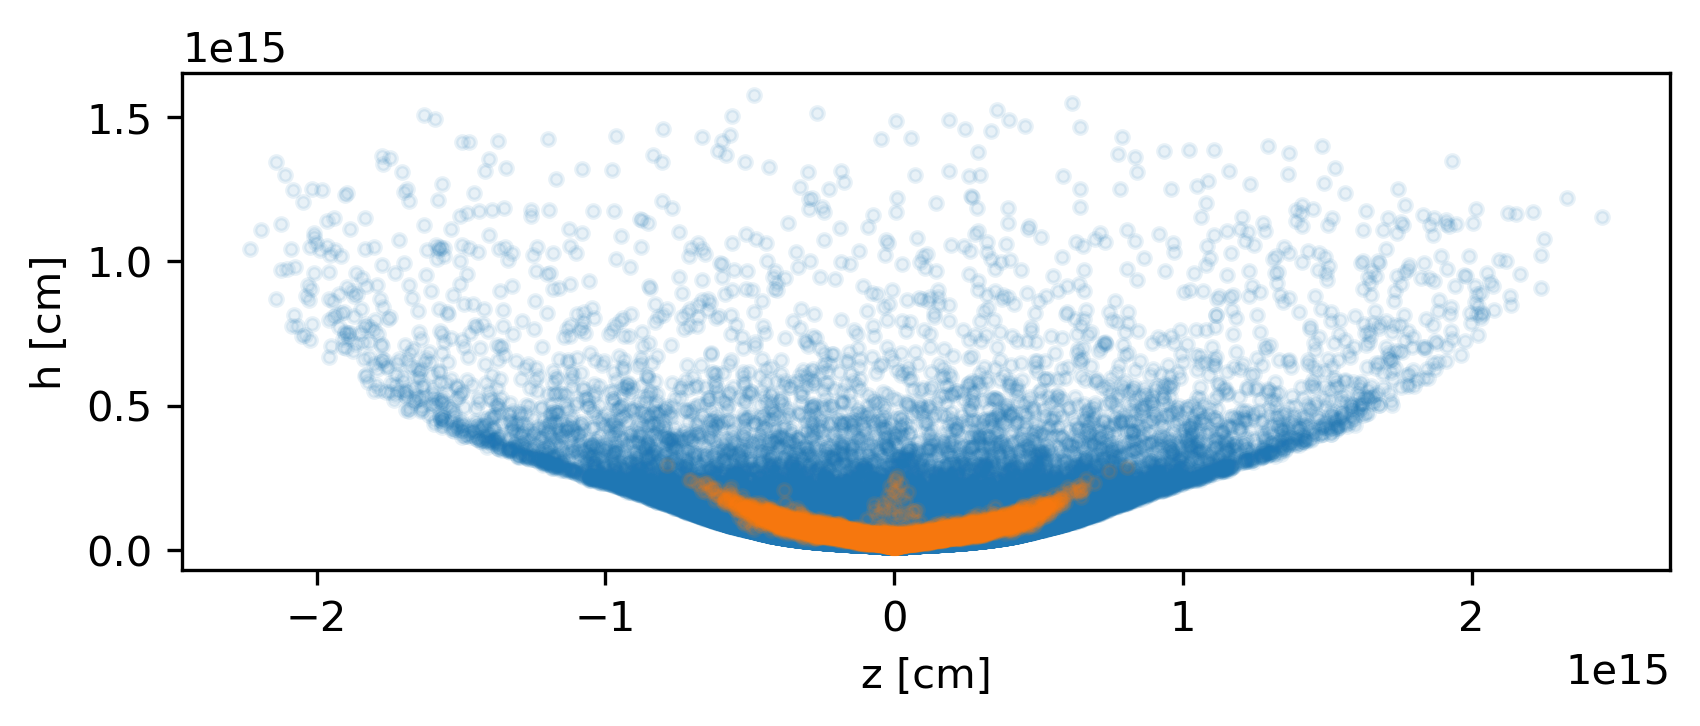
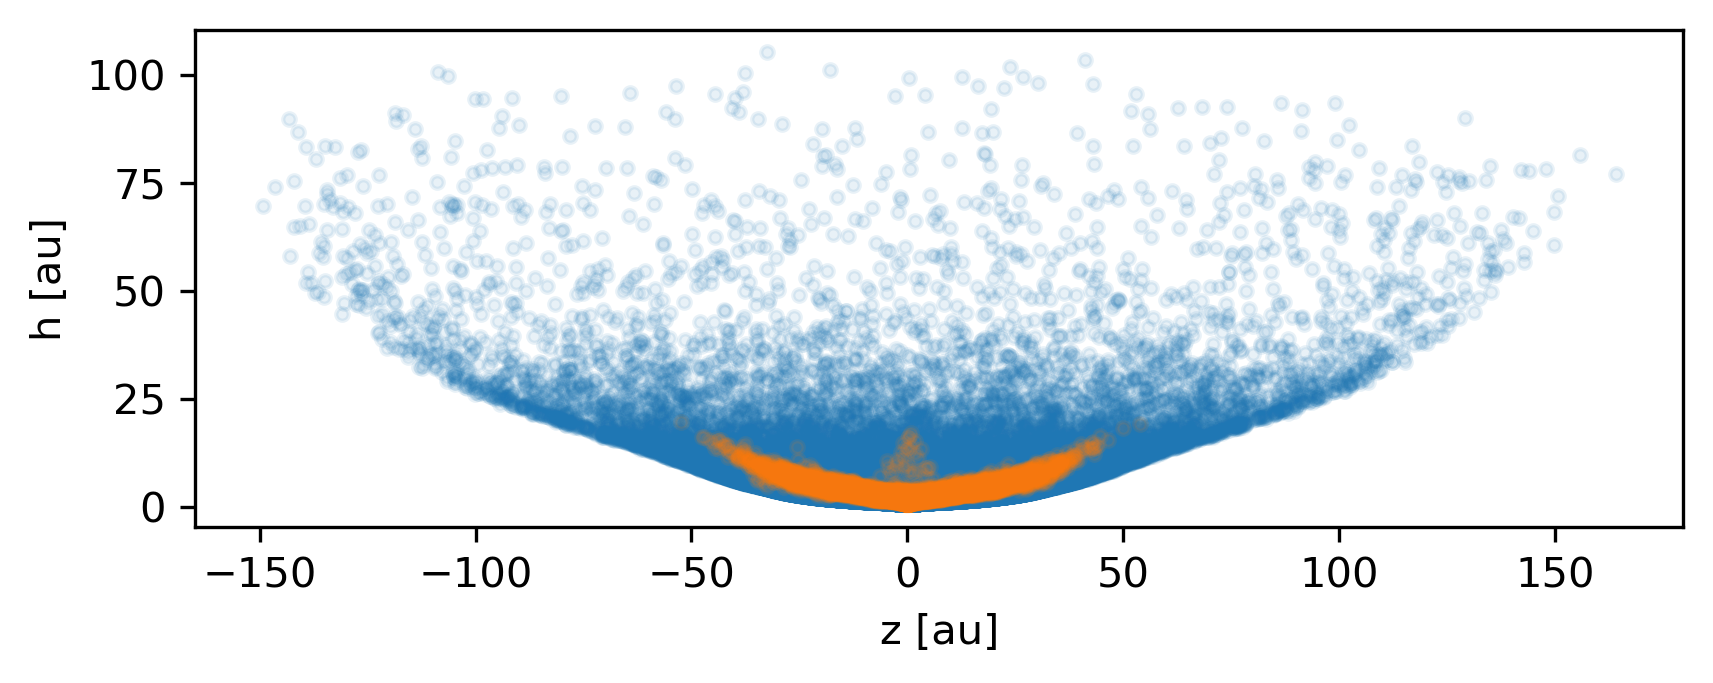
Update docs

diff --git a/docs/source/quickstart.rst b/docs/source/quickstart.rst
@@ -62,13 +62,13 @@ Load a single snapshot and access particle arrays and properties.
     >>> snap = plonk.load_snap('disc_00030.h5')
 
     >>> snap['position']
-    array([[-3.69505001e+14,  7.42032967e+14, -7.45096980e+13],
-           [-1.63052677e+15,  1.16308971e+15,  1.92879212e+14],
-           [-7.66283930e+14,  1.62532232e+15,  2.34302988e+13],
+    array([[-3.69505001e+12,  7.42032967e+12, -7.45096980e+11],
+           [-1.63052677e+13,  1.16308971e+13,  1.92879212e+12],
+           [-7.66283930e+12,  1.62532232e+13,  2.34302988e+11],
            ...,
-           [ 1.39571712e+15, -1.16179990e+15,  8.09090354e+13],
-           [ 9.53716176e+14,  9.98500386e+14,  4.93933367e+13],
-           [ 1.21421196e+14,  2.08618956e+15,  1.12998892e+14]]) <Unit('centimeter')>
+           [ 1.39571712e+13, -1.16179990e+13,  8.09090354e+11],
+           [ 9.53716176e+12,  9.98500386e+12,  4.93933367e+11],
+           [ 1.21421196e+12,  2.08618956e+13,  1.12998892e+12]]) <Unit('meter')>
 
     >>> snap['position'].to('au')
     array([[ -24.6998837 ,   49.60184016,   -4.98066567],
@@ -90,7 +90,9 @@ Load a single snapshot and access sink arrays.
 
     >>> snap = plonk.load_snap('disc_00030.h5')
 
-    >>> snap.sinks.available_arrays()
+    >>> sinks = snap.sinks
+
+    >>> sinks.available_arrays()
     ('accretion_radius',
      'last_injection_time',
      'mass',
@@ -100,9 +102,9 @@ Load a single snapshot and access sink arrays.
      'spin',
      'velocity')
 
-    >>> snap.sinks['spin']
-    array([[ 3.56866999e+43, -1.17910663e+44,  2.44598074e+47],
-           [ 4.14083556e+43,  1.19118555e+43,  2.62569386e+46]]) <Unit('centimeter ** 2 * gram / second')>
+    >>> sinks['spin']
+    array([[ 3.56866999e+36, -1.17910663e+37,  2.44598074e+40],
+           [ 4.14083556e+36,  1.19118555e+36,  2.62569386e+39]]) <Unit('kilogram * meter ** 2 / second')>
 
 
 ~~~~~~~~~~~~~~~~~~~~~
@@ -188,10 +190,50 @@ Load a simulation, and access snapshots and other data.
      <plonk.Snap "disc_00030.h5">]
 
     >>> sim.time_series['global']
-    # Output is a pandas DataFrame
+             time [s]  ...  dust_density_average [kg / m ** 3]
+    0    0.000000e+00  ...                        4.762293e-15
+    1    8.005946e+06  ...                        4.762195e-15
+    2    3.202378e+07  ...                        4.763760e-15
+    3    1.280951e+08  ...                        4.789313e-15
+    4    2.561903e+08  ...                        4.877956e-15
+    ..            ...  ...                                 ...
+    548  6.225423e+10  ...                        1.475116e-14
+    549  6.238233e+10  ...                        1.475371e-14
+    550  6.251042e+10  ...                        1.478691e-14
+    551  6.263852e+10  ...                        1.483493e-14
+    552  6.276661e+10  ...                        1.489087e-14
+
+    [553 rows x 21 columns]
 
     >>> sim.time_series['sinks']
-    # Output is a list of pandas DataFrames
+    [          time [s]  position_x [m]  ...  sink_sink_force_y [N]  sink_sink_force_z [N]
+     0     4.002973e+06   -1.068586e+10  ...           2.455750e+18           2.020208e+14
+     1     8.005946e+06   -1.068584e+10  ...           4.911471e+18           2.020271e+14
+     2     1.601189e+07   -1.068574e+10  ...           9.822886e+18           2.020559e+14
+     3     3.202378e+07   -1.068536e+10  ...           1.964551e+19           2.021794e+14
+     4     6.404757e+07   -1.068380e+10  ...           3.928915e+19           1.407952e+14
+     ...            ...             ...  ...                    ...                    ...
+     1038  6.257447e+10   -9.976304e+09  ...           7.513519e+20           7.902581e+15
+     1039  6.263852e+10   -9.895056e+09  ...           7.884134e+20           7.664701e+15
+     1040  6.270257e+10   -9.809975e+09  ...           8.251714e+20           7.628553e+15
+     1041  6.276661e+10   -9.721096e+09  ...           8.616085e+20           7.705555e+15
+     1042  6.283066e+10   -9.628452e+09  ...           8.977201e+20           7.391809e+15
+
+     [1043 rows x 18 columns],
+               time [s]  position_x [m]  ...  sink_sink_force_y [N]  sink_sink_force_z [N]
+     0     4.002973e+06    1.120931e+13  ...          -2.573360e+21          -2.116959e+17
+     1     8.005946e+06    1.120928e+13  ...          -5.146689e+21          -2.117025e+17
+     2     1.601189e+07    1.120918e+13  ...          -1.029332e+22          -2.117327e+17
+     3     3.202378e+07    1.120877e+13  ...          -2.058637e+22          -2.118621e+17
+     4     6.404757e+07    1.120715e+13  ...          -4.117069e+22          -1.475378e+17
+     ...            ...             ...  ...                    ...                    ...
+     1038  6.257447e+10    1.041137e+13  ...          -7.748986e+23          -8.150240e+18
+     1039  6.263852e+10    1.032805e+13  ...          -8.131071e+23          -7.904764e+18
+     1040  6.270257e+10    1.024073e+13  ...          -8.510027e+23          -7.867359e+18
+     1041  6.276661e+10    1.014946e+13  ...          -8.885717e+23          -7.946693e+18
+     1042  6.283066e+10    1.005427e+13  ...          -9.257998e+23          -7.623017e+18
+
+     [1043 rows x 18 columns]]
 
 -------------
 Visualization
@@ -213,7 +255,7 @@ Produce a projection image plot of density.
 
 .. image:: _static/density.png
 
-Set plot extent, colormap, colorbar range, and axis units.
+Set plot units, extent, colormap, and colorbar range.
 
 .. code-block:: python
 
@@ -221,19 +263,18 @@ Set plot extent, colormap, colorbar range, and axis units.
 
     >>> snap = plonk.load_snap('disc_00030.h5')
 
-    >>> au = plonk.units['au']
-    >>> g_cm_2 = plonk.units['g/cm^2']
+    >>> units = {'position': 'au', 'density': 'g/cm^3', 'projection': 'cm'}
 
     >>> snap.image(
     ...     quantity='density',
-    ...     extent=(20, 120, -50, 50) * au,
-    ...     units={'position': 'au'},
+    ...     extent=(20, 120, -50, 50),
+    ...     units=units,
     ...     cmap='gist_heat',
-    ...     vmin=0.1 * g_cm_2,
-    ...     vmax=0.2 * g_cm_2,
+    ...     vmin=0.1,
+    ...     vmax=0.2,
     ... )
 
-.. image:: _static/density2.png
+.. image:: _static/density_zoom.png
 
 ~~~~~~~~~~~~~~~~~~
 Cross-section plot
@@ -247,13 +288,15 @@ Produce a cross-section image plot of density.
 
     >>> snap = plonk.load_snap('disc_00030.h5')
 
+    >>> units={'position': 'au', 'density': 'g/cm^3'}
+
     >>> snap.image(
     ...     quantity='density',
     ...     x='x',
     ...     y='z',
     ...     interp='slice',
+    ...     units=units,
     ...     cmap='gist_heat',
-    ...     units={'position': 'au'},
     ... )
 
 .. image:: _static/cross_section.png
@@ -273,7 +316,8 @@ The different colours refer to different particle types.
 
     >>> snap = plonk.load_snap('disc_00030.h5')
 
-    >>> snap.plot(x='z', y='h', alpha=0.1)
+    >>> units = {'position': 'au', 'smoothing_length': 'au'}
+    >>> snap.plot(x='z', y='h', units=units, alpha=0.1)
 
 .. image:: _static/particle_plot.png
 
@@ -286,9 +330,14 @@ Plot particles with color representing density.
     >>> snap = plonk.load_snap('disc_00030.h5')
 
     >>> units={'position': 'au', 'density': 'g/cm^3'}
-    >>> ax = snap.plot(x='x', y='z', c='density', units=units)
-    >>> ax.set_xlim(-50, 50)
-    >>> ax.set_ylim(-20, 20)
+    >>> ax = snap.plot(
+    ...     x='x',
+    ...     y='z',
+    ...     c='density',
+    ...     units=units,
+    ...     xlim=(-50, 50),
+    ...     ylim=(-20, 20),
+    ... )
 
 .. image:: _static/particle_plot2.png
 
@@ -412,26 +461,26 @@ Create a radial profile.
      'velocity_z')
 
     >>> prof['surface_density']
-    array([0.01271039, 0.02865819, 0.04067127, 0.05149332, 0.06517471,
-           0.08249241, 0.09637796, 0.10894536, 0.1180496 , 0.12765387,
-           0.13273897, 0.13777124, 0.14111602, 0.14282742, 0.145969  ,
-           0.14673176, 0.1481213 , 0.1484152 , 0.14889608, 0.14909938,
-           0.14953987, 0.14954986, 0.14994646, 0.14897097, 0.14972681,
-           0.14970705, 0.14847499, 0.14784934, 0.14520481, 0.14291035,
-           0.13908764, 0.13618617, 0.13281137, 0.13105751, 0.13013781,
-           0.12858083, 0.12947576, 0.12726514, 0.12662418, 0.12583058,
-           0.12470909, 0.12412849, 0.12355702, 0.12408329, 0.12501586,
-           0.12613285, 0.12840858, 0.13001517, 0.13208028, 0.1325977 ,
-           0.13393635, 0.1347609 , 0.13422298, 0.13470778, 0.1341627 ,
-           0.13361293, 0.13220966, 0.13113586, 0.12922049, 0.12823264,
-           0.12620479, 0.12476726, 0.12369766, 0.12195328, 0.12061618,
-           0.11875485, 0.11630568, 0.11454608, 0.11096825, 0.10793763,
-           0.10369441, 0.09923215, 0.09429677, 0.08922675, 0.08417294,
-           0.07820635, 0.07329912, 0.06744614, 0.06248629, 0.05670113,
-           0.05031995, 0.04459406, 0.03960302, 0.03439841, 0.02964247,
-           0.02460624, 0.02075047, 0.01733462, 0.01396035, 0.01062678,
-           0.00837714, 0.00636641, 0.00525715, 0.00458604, 0.00361685,
-           0.00312283, 0.00280484, 0.00247301, 0.00228797, 0.00205925]) <Unit('gram / centimeter ** 2')>
+    array([0.12710392, 0.28658185, 0.40671266, 0.51493316, 0.65174709,
+           0.82492413, 0.96377964, 1.08945358, 1.18049604, 1.27653871,
+           1.32738967, 1.37771242, 1.41116016, 1.42827418, 1.45969001,
+           1.46731756, 1.48121301, 1.48415196, 1.48896081, 1.49099377,
+           1.49539866, 1.49549864, 1.49946459, 1.48970975, 1.49726806,
+           1.49707047, 1.48474985, 1.47849345, 1.45204807, 1.42910354,
+           1.39087639, 1.36186174, 1.32811369, 1.31057511, 1.30137812,
+           1.28580834, 1.29475762, 1.27265139, 1.2662418 , 1.25830579,
+           1.2470909 , 1.24128492, 1.23557015, 1.24083293, 1.25015857,
+           1.26132853, 1.28408577, 1.30015172, 1.32080284, 1.325977  ,
+           1.33936347, 1.34760897, 1.34222981, 1.34707782, 1.34162702,
+           1.33612932, 1.32209663, 1.31135862, 1.29220491, 1.28232641,
+           1.26204789, 1.24767264, 1.23697665, 1.21953283, 1.20616179,
+           1.18754849, 1.16305682, 1.14546076, 1.10968249, 1.07937633,
+           1.0369441 , 0.99232149, 0.94296769, 0.89226746, 0.84172944,
+           0.78206348, 0.73299116, 0.67446142, 0.62486291, 0.56701135,
+           0.5031995 , 0.44594058, 0.39603015, 0.34398414, 0.29642473,
+           0.24606244, 0.20750469, 0.17334624, 0.13960351, 0.10626775,
+           0.08377139, 0.06366415, 0.05257149, 0.04586044, 0.03616855,
+           0.03122829, 0.02804837, 0.02473014, 0.02287971, 0.02059255]) <Unit('kilogram / meter ** 2')>
 
 Plot a radial profile.
 
@@ -445,10 +494,9 @@ Plot a radial profile.
     >>> prof = plonk.load_profile(snap)
 
     >>> units = {'position': 'au', 'scale_height': 'au'}
-    >>> with plt.style.context('seaborn'):
-    ...     ax = prof.plot('radius', 'scale_height', units=units)
-    ...     ax.set_ylabel('Scale height [au]')
-    ...     ax.legend().remove()
+    >>> ax = prof.plot('radius', 'scale_height', units=units)
+    >>> ax.set_ylabel('Scale height [au]')
+    >>> ax.legend().remove()
 
 .. image:: _static/scale_height.png
 
@@ -475,9 +523,6 @@ radius.
     ... )
 
     >>> units = {'position': 'au', 'density': 'g/cm^3'}
-    >>> with plt.style.context('seaborn'):
-    ...     ax = prof.plot('z', 'density', units=units)
-    ...     ax.set_ylabel(r'Density [g/cm${}^3$]')
-    ...     ax.legend().remove()
+    >>> ax = prof.plot('z', 'density', units=units)
 
 .. image:: _static/profile_z.png

diff --git a/docs/source/overview.rst b/docs/source/overview.rst
@@ -638,10 +638,9 @@ We can also plot the profiles.
 .. code-block:: pycon
 
     >>> units = {'position': 'au', 'scale_height': 'au', 'surface_density': 'g/cm^2'}
-    >>> with plt.style.context('seaborn'):
-    ...     fig, axs = plt.subplots(ncols=2, figsize=(12, 5))
-    ...     prof.plot('radius', 'surface_density', units=units, ax=axs[0])
-    ...     prof.plot('radius', 'scale_height', units=units, ax=axs[1])
+    >>> fig, axs = plt.subplots(ncols=2, figsize=(12, 5))
+    >>> prof.plot('radius', 'surface_density', units=units, ax=axs[0])
+    >>> prof.plot('radius', 'scale_height', units=units, ax=axs[1])
 
 .. figure:: _static/profile.png
 
